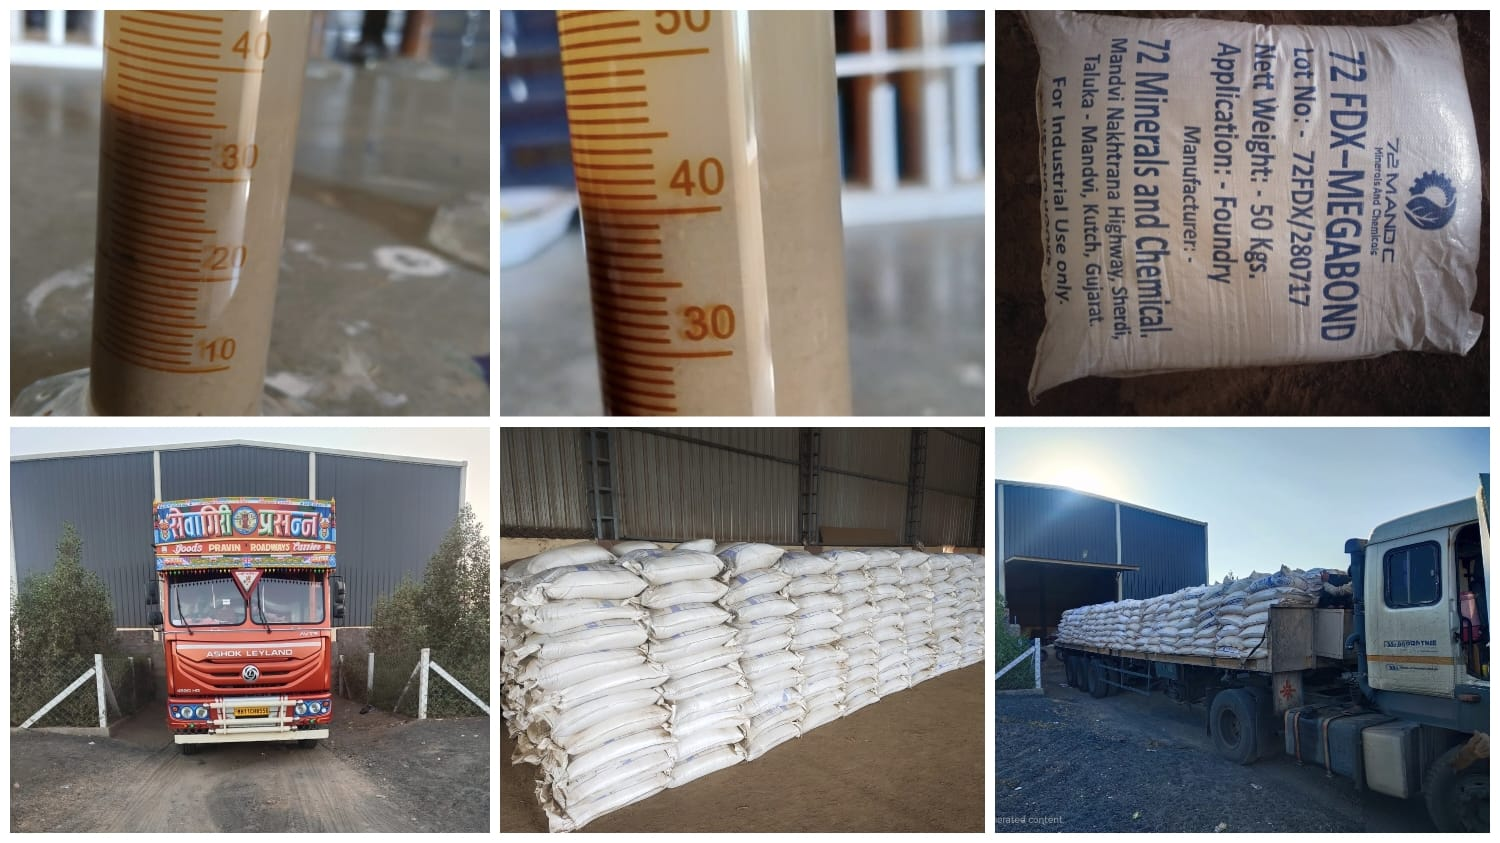
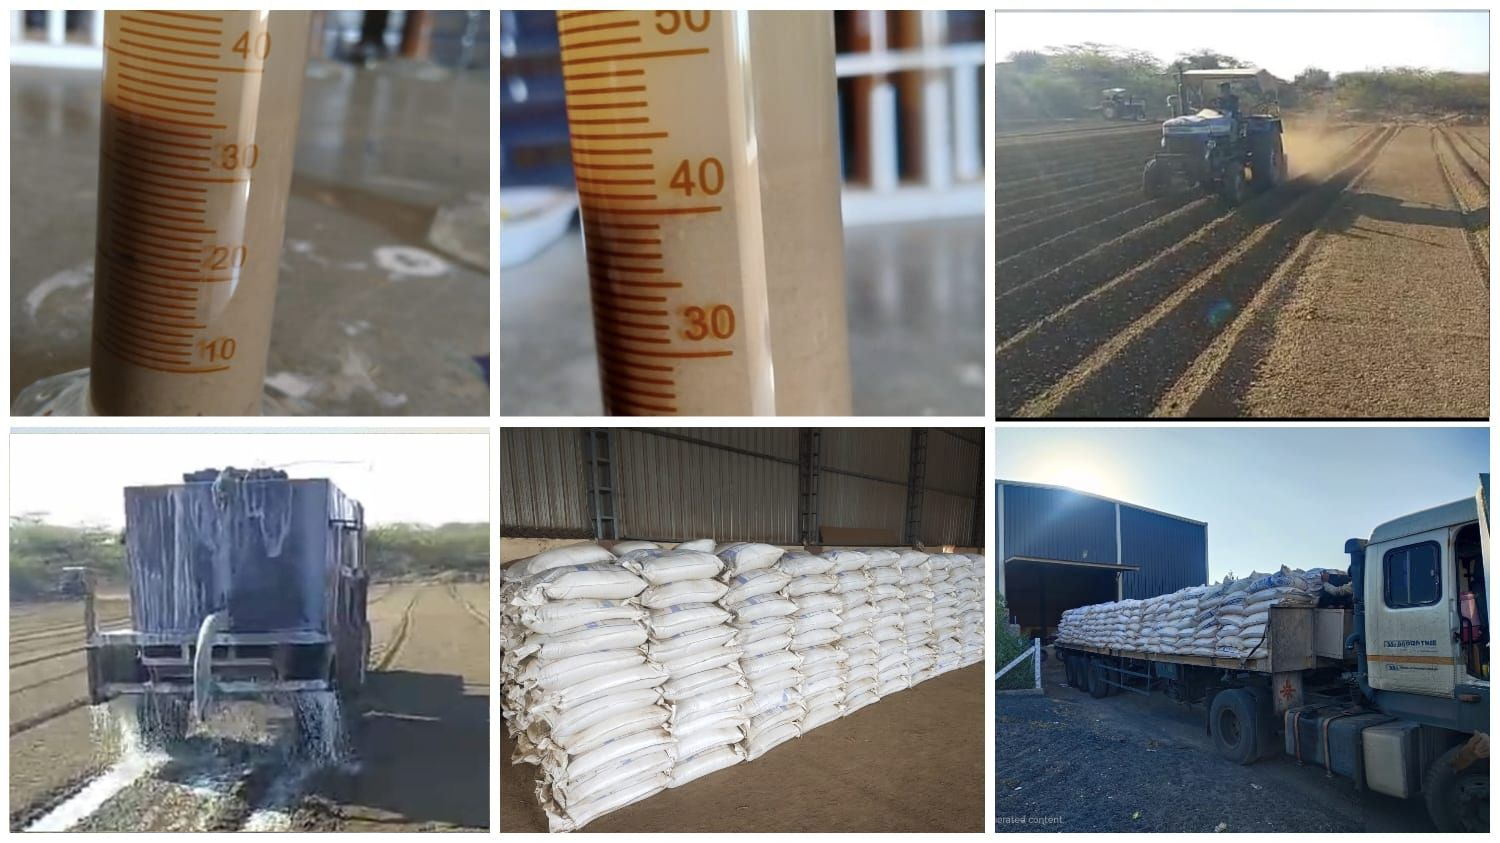
Updated Some photos

Changed region(s): [[0.644, 0.0, 1.0, 0.5243], [0.0, 0.4935, 0.3373, 0.987]]

diff --git a/app/projects/ProjectClientPage.js b/app/projects/ProjectClientPage.js
@@ -25,35 +25,43 @@ const ProjectClientPage = () => {
             </div>
 
             <Element name="aboutSection">
-            <div className="about w-full bg-gradient-to-b from-[#fcf7ea] to-[#fff] py-22 px-14 flex flex-col items-center justify-center gap-34">
-                <div className="projects flex justify-between w-[85vw] max-xl:flex-col max-xl:gap-8 max-xl:items-center">
-                    <div className="content flex jsutify-center items-center gap-5 flex-col w-[40vw] max-xl:w-[85vw] mx-auto">
-                        <h3 className="font-semibold text-xl">Our Projects</h3>
-                        <h1 className="font-[800] text-4xl bg-gradient-to-r from-[#407050] via-[#76702c] to-[#b99d4ab0] text-transparent bg-clip-text inline-block text-center">Our Completed Projects</h1>
-                        <p className='text-center mt-3'>Spanning over 18 locations, 72MANDC has successfully completed 50 projects both locally and internationally with utmost efficiency, environmental care and significant employment contribution to the society.</p>
-                        <div className='flex gap-2 items-center mt-8'>
-                            <h2 className='text-4xl text-[#407050] font-[900]'>50+</h2>
-                            <p>Completed Projects</p>
+                <div className="about w-full bg-gradient-to-b from-[#fcf7ea] to-[#fff] py-22 px-14 flex flex-col items-center justify-center gap-34">
+                    <div className="projects flex justify-between w-[85vw] max-xl:flex-col max-xl:gap-8 max-xl:items-center">
+                        <div className="content flex jsutify-center items-center gap-5 flex-col w-[40vw] max-xl:w-[85vw] mx-auto">
+                            <h3 className="font-semibold text-xl">Our Projects</h3>
+                            <h1 className="font-[800] text-4xl bg-gradient-to-r from-[#407050] via-[#76702c] to-[#b99d4ab0] text-transparent bg-clip-text inline-block text-center">Our Completed Projects</h1>
+                            <p className='text-center mt-3'>Spanning over 18 locations, 72MANDC has successfully completed 50 projects both locally and internationally with utmost efficiency, environmental care and significant employment contribution to the society.</p>
+                            <div className='flex gap-2 items-center mt-8'>
+                                <h2 className='text-4xl text-[#407050] font-[900]'>50+</h2>
+                                <p>Completed Projects</p>
+                            </div>
+                        </div>
+                        <div className="w-[448px] max-md:w-full">
+                            <Image className="rounded-lg " src="/projects/photo_1.jpg" alt="" />
                         </div>
                     </div>
-                    <div className="w-[448px] max-md:w-full">
-                        <Image className="rounded-lg" src="/projects/projects_2.png" alt="" />
+
+
+                    <div className="ongoing_projects flex justify-between w-[85vw] max-xl:flex-col max-xl:gap-8 max-xl:items-center">
+                        <div className="w-[448px] max-md:w-full">
+                            <Image className="rounded-lg object-center" src="/projects/photo_3.jpg" alt="" />
+                        </div>
+                        <div className="content flex jsutify-center items-center gap-5 flex-col w-[40vw] max-xl:w-[85vw]">
+                            <h3 className="font-semibold text-xl">Our</h3>
+                            <h1 className="font-[800] text-4xl bg-gradient-to-r from-[#407050] via-[#76702c] to-[#b99d4ab0] text-transparent bg-clip-text inline-block">Ongoing Projects</h1>
+                            <p className="text-center mt-8">With three active projects strategically spread across the length and breadth of India, we are steadfast in our mission to position the nation as a global leader in coal extraction. Each project reflects our commitment to innovation, sustainable practices, and powering India&apos;s future through responsible mining.</p>
+                        </div>
                     </div>
                 </div>
-
-
-                <div className="ongoing_projects flex justify-between w-[85vw] max-xl:flex-col max-xl:gap-8 max-xl:items-center">
-                    <div className="w-[448px] max-md:w-full">
-                        <Image className="rounded-lg object-left" src="/projects/factory.jpg" alt="" />
-                    </div>
-                    <div className="content flex jsutify-center items-center gap-5 flex-col w-[40vw] max-xl:w-[85vw]">
-                        <h3 className="font-semibold text-xl">Our</h3>
-                        <h1 className="font-[800] text-4xl bg-gradient-to-r from-[#407050] via-[#76702c] to-[#b99d4ab0] text-transparent bg-clip-text inline-block">Ongoing Projects</h1>
-                        <p className="text-center mt-8">With three active projects strategically spread across the length and breadth of India, we are steadfast in our mission to position the nation as a global leader in coal extraction. Each project reflects our commitment to innovation, sustainable practices, and powering India&apos;s future through responsible mining.</p>
-                    </div>
+            </Element>
+            <div className="ongoing_projects mx-auto flex justify-between w-[80vw] max-xl:flex-col max-xl:gap-8 max-xl:items-center">
+                <div className="w-[550px] max-md:w-full">
+                    <Image className="rounded-lg object-center" src="/projects/photo_2.jpg" alt="" />
+                </div>
+                <div className="w-[550px] h-[336px] max-md:w-full">
+                    <Image className="rounded-lg object-cover w-[550px] h-[412px]" src="/projects/photo_4.jpg" alt="" />
                 </div>
             </div>
-            </Element>
 
 
             <div className="technology flex flex-col jsutify-center items-center w-[90vw] mx-auto mt-12 mb-34 bg-[#ece5cd] py-16 px-16 max-lg:px-8">

diff --git a/app/services/ServiceClientPage.js b/app/services/ServiceClientPage.js
@@ -30,11 +30,11 @@ const ServiceClientPage = () => {
                         <h1 className="font-[800] text-4xl bg-gradient-to-r from-[#407050] via-[#76702c] to-[#b99d4ab0] text-transparent bg-clip-text inline-block">Bentonite and Bauxite</h1>
                         <div className="achievments flex justify-center items-center gap-3 flex-wrap">
                             <div className="card w-[320px] p-3 rounded-lg flex flex-col gap-2">
-                                <Image className='rounded-lg shadow-xl' src="/service/photo_1.jpeg" alt="" />
+                                <Image className='rounded-lg shadow-xl' src="/service/photo_1.jpg" alt="" />
                                 <p className=" font-poppins"><span className='font-bold text-xl'>Hamla Mines</span> - Rich in high-quality bentonite, ideal for industrial-grade applications.</p>
                             </div>
                             <div className="card w-[320px] p-3 rounded-lg flex flex-col gap-2">
-                                <Image className='rounded-lg shadow-xl' src="/service/photo_2.jpeg" alt="" />
+                                <Image className='rounded-lg shadow-xl' src="/service/photo_2.jpg" alt="" />
                                 <p className=" font-poppins"><span className='font-bold text-xl'>Vandh Mines</span> - Produces premium bentonite with excellent swelling and bonding properties.</p>
                             </div>
                             <div className="card w-[320px] p-3 rounded-lg flex flex-col gap-2">
@@ -95,8 +95,12 @@ const ServiceClientPage = () => {
                         </div>
                     </div>
                 </div>
-                <div className="flex justify-center items-center w-[70vw] mt-16 mb-14 max-md:w-[85vw]">
+                <div className="flex justify-center items-center w-[70vw] mt-16 mb-8 max-md:w-[85vw]">
                     <Image className='rounded-lg' src="/service/services.jpg" alt="" />
+                </div>
+                <div className="flex justify-center items-center gap-12 w-[30vw] max-md:w-[75vw] max-md:flex-wrap">
+                    <Image className='rounded-lg' src="/service/photo_1.jpg" alt="" />
+                    <Image className='rounded-lg' src="/service/photo_2.jpg" alt="" />
                 </div>
             </div>
 

diff --git a/app/about/AboutClientPage.js b/app/about/AboutClientPage.js
@@ -52,10 +52,10 @@ const AboutClientPage = () => {
                     <div className="content flex jsutify-center items-center gap-5 flex-col w-[40vw] max-xl:w-[70vw]">
                         <h3 className="font-semibold text-xl">At a Glance</h3>
                         <h1 className="font-[800] text-4xl bg-gradient-to-r from-[#407050] via-[#76702c] to-[#b99d4ab0] text-transparent bg-clip-text inline-block text-center">72MANDC Across India</h1>
-                        <p className="max-xl:text-center">With 9 of our ongoing projects that include 4 MDO projects spread across the country, we are dedicated to making India a world-leading coal extractor. Our cost-effectiveness in completing mission-critical tasks on schedule has secured high productivity and profitability for our stakeholders time and time again.</p>
+                        <p className="max-xl:text-center">With 3 of our ongoing projects that include 4 MDO projects spread across the country, we are dedicated to making India a world-leading coal extractor. Our cost-effectiveness in completing mission-critical tasks on schedule has secured high productivity and profitability for our stakeholders time and time again.</p>
                     </div>
                     <div className="w-[500px] max-md:w-full">
-                        <Image className="rounded-lg" src="/presence.png" alt="" />
+                        <Image className="rounded-lg" src="/presence.jpg" alt="" />
                     </div>
                 </div>
 
@@ -130,6 +130,11 @@ const AboutClientPage = () => {
                             <Image className='object-top rounded-lg h-[300px] w-[300px]' src="/founder.jpg" alt="" />
                             <h2 className="text-xl font-semibold">Arvind Karshan Sangar</h2>
                             <p>Founder and CEO</p>
+                        </div>
+                        <div className="card bg-[#f0ebdc] w-[300px] p-3 rounded-lg flex flex-col gap-2 justify-center items-center shadow-xl">
+                            <Image className='object-top rounded-lg h-[300px] w-[300px]' src="/partner.jpg" alt="" />
+                            <h2 className="text-xl font-semibold">Anup aggarwal</h2>
+                            <p>Working partner</p>
                         </div>
                         
 

diff --git a/app/sustainability/SustainabilityClientPage.js b/app/sustainability/SustainabilityClientPage.js
@@ -70,22 +70,19 @@ const SustainabilityClientPage = () => {
             <div className='mt-3'>
               <ul className='list-disc flex flex-col gap-5 mt-5 items-start'>
                 <li>Safety Is of utmost priority at 72MANDC. Every day, at every operating location, we strive for zero incidents, accidents, occupational diseases, or property damage.</li>
-                <li>72MANDC provides cutting-edge training that surpasses state safety requirements.</li>
-                <li>Personal accountability continues to be critical to our success, with employees at all levels adhering to our shared safety practices, behaviour, and vision.</li>
                 <li>Hundreds of safety observations are undertaken across 72MANDC on a daily basis to identify best practises and rapidly remedy potentially hazardous behaviours.</li>
-                <li>We also work with government authorities to promote safety technology and best practices in order to achieve our objective  of zero accidents.</li>
               </ul>
             </div>
           </div>
           <div className="w-[448px] max-md:w-full">
-            <Image className="rounded-lg" src="/sustainability/photo_4.png" alt="" />
+            <Image className="rounded-lg h-[300px] object-cover" src="/sustainability/photo_4.jpg" alt="" />
           </div>
         </div>
 
 
         <div className="ecosystem flex justify-between w-[85vw] max-xl:flex-col max-xl:gap-8 max-xl:items-center">
-          <div className="w-[448px] max-md:w-full">
-            <Image className="rounded-lg" src="/sustainability/photo_5.png" alt="" />
+          <div className="max-md:w-full">
+            <Image className="rounded-lg object-cover w-[550px] h-[350px]" src="/sustainability/photo_5.jpg" alt="" />
           </div>
           <div className="content flex jsutify-center items-center gap-5 flex-col w-[40vw] max-xl:w-[85vw]">
             <h3 className="font-semibold text-xl">Our Corporate Social Responsibility</h3>

diff --git a/app/page.js b/app/page.js
@@ -41,7 +41,7 @@ export default function Home() {
 
           <div className="container flex justify-between w-[90vw] mx-auto max-lg:flex-col max-lg:justify-center max-lg:mx-auto max-lg:w-[80vw] max-lg:items-center max-lg:gap-5 max-md:px-8">
             <div className="w-[500px] max-md:w-full">
-              <Image className="rounded-lg" src="/mining_photo_2.png" alt="" />
+              <Image className="rounded-lg object-cover" src="/mining_photo_2.jpg" alt="" />
             </div>
             <div className="content flex jsutify-center items-center gap-5 flex-col w-[40vw] max-lg:w-[80vw]">
               <h3 className="font-semibold text-xl">What we do</h3>
@@ -60,7 +60,7 @@ export default function Home() {
           <p className="max-xl:text-center">With 03 of our ongoing projects spread across the country, we are dedicated to making India a world-leading bentonite extractor. Our cost-effectiveness in completing mission-critical tasks on schedule has secured high productivity and profitability for our stakeholders time and time again.</p>
         </div>
         <div className="w-[500px] max-md:w-full">
-          <Image className="rounded-lg" src="/presence.png" alt="" />
+          <Image className="rounded-lg" src="/presence.jpg" alt="" />
         </div>
       </div>
 

diff --git a/app/contact/ContactClientPage.js b/app/contact/ContactClientPage.js
@@ -56,11 +56,11 @@ const ContactClientPage = () => {
                         <div className="flex flex-col gap-8">
                             <div className='flex items-center gap-4 max-lg:gap-8'>
                                 <Image src="/phone.svg" alt="" />
-                                <span>+91 9879843139, 9313300677</span>
+                                <span>+91 9879785539, +91 8376024257, 9313300677</span>
                             </div>
                             <div className='flex items-center gap-4 max-lg:gap-8'>
                                 <Image src="/email.svg" alt="" />
-                                <span>arvind@72mandc.com</span>
+                                <span>arvind@72mandc.com, Anupagg12@gmail.com</span>
                             </div>
                             <div className='flex items-center gap-4 max-lg:gap-8'>
                                 <Image src="/location.svg" alt="" />
